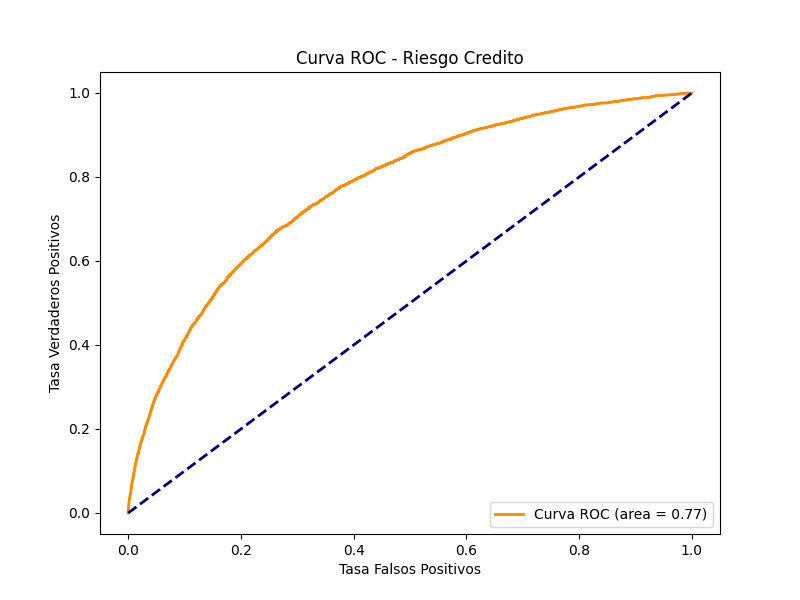
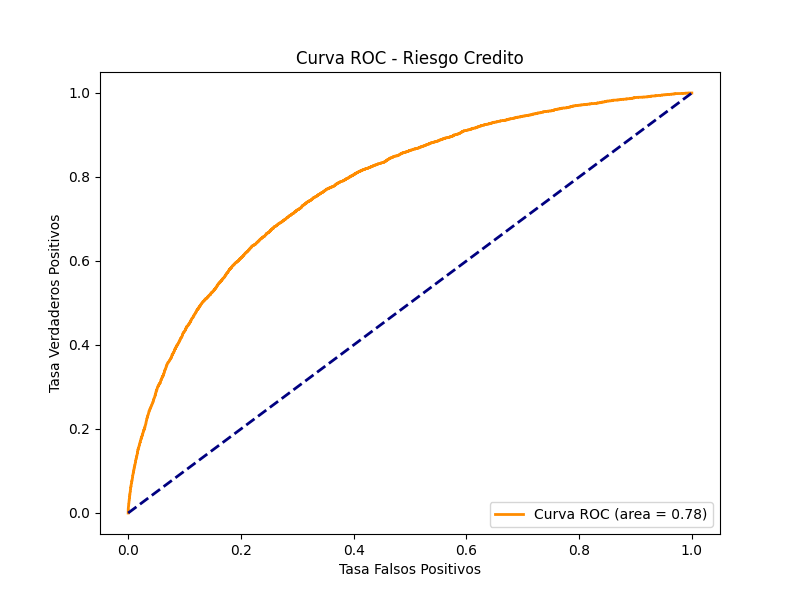
VERSION FINAL: Integracion de 6 fuentes de datos y AUC record de 0.7816

diff --git a/02_data_preparation/make_dataset.py b/02_data_preparation/make_dataset.py
@@ -9,17 +9,22 @@ OUTPUT_FILE = os.path.join(OUTPUT_FOLDER, "master_table.parquet")
 
 def agg_numeric(df, group_var, df_name):
     numeric_df = df.select_dtypes('number')
+    if group_var in numeric_df.columns:
+        numeric_df = numeric_df.drop(columns=[group_var])
     numeric_df[group_var] = df[group_var]
-    agg = numeric_df.groupby(group_var).agg(['mean', 'max', 'min', 'sum'])
+    
+    agg = numeric_df.groupby(group_var).agg(['mean', 'max', 'min', 'sum', 'var'])
+    
     columns = []
     for var in agg.columns.levels[0]:
         for stat in agg.columns.levels[1]:
             columns.append(f'{df_name}_{var}_{stat}')
+    
     agg.columns = columns
     return agg.reset_index()
 
 def main():
-    print("Iniciando integracion de datos...")
+    print("Iniciando integracion masiva de datos...")
     
     path_app = os.path.join(DATA_DIR, 'application_.parquet')
     if not os.path.exists(path_app):
@@ -27,11 +32,11 @@ def main():
         return
 
     df_main = pd.read_parquet(path_app, engine='pyarrow')
-    print(f"Filas iniciales: {df_main.shape[0]}")
+    print(f"Base principal: {df_main.shape}")
 
     path_bureau = os.path.join(DATA_DIR, 'bureau.parquet')
     if os.path.exists(path_bureau):
-        print("Procesando bureau.parquet...")
+        print("Integrando Bureau...")
         bureau = pd.read_parquet(path_bureau, engine='pyarrow')
         bureau_agg = agg_numeric(bureau.drop(columns=['SK_ID_BUREAU']), group_var='SK_ID_CURR', df_name='bureau')
         df_main = df_main.merge(bureau_agg, on='SK_ID_CURR', how='left')
@@ -40,29 +45,70 @@ def main():
 
     path_prev = os.path.join(DATA_DIR, 'previous_application.parquet')
     if os.path.exists(path_prev):
-        print("Procesando previous_application.parquet...")
+        print("Integrando Previous Application...")
         prev = pd.read_parquet(path_prev, engine='pyarrow')
         prev_agg = agg_numeric(prev.drop(columns=['SK_ID_PREV']), group_var='SK_ID_CURR', df_name='prev')
         df_main = df_main.merge(prev_agg, on='SK_ID_CURR', how='left')
         del prev, prev_agg
         gc.collect()
 
-    print("Calculando Ratios Financieros y de Dominio...")
+    path_pos = os.path.join(DATA_DIR, 'POS_CASH_balance.parquet')
+    if os.path.exists(path_pos):
+        print("Integrando POS CASH...")
+        pos = pd.read_parquet(path_pos, engine='pyarrow')
+        pos_agg = agg_numeric(pos.drop(columns=['SK_ID_PREV']), group_var='SK_ID_CURR', df_name='pos')
+        df_main = df_main.merge(pos_agg, on='SK_ID_CURR', how='left')
+        del pos, pos_agg
+        gc.collect()
+
+    path_inst = os.path.join(DATA_DIR, 'installments_payments.parquet')
+    if os.path.exists(path_inst):
+        print("Integrando Installments Payments (Esto toma tiempo)...")
+        inst = pd.read_parquet(path_inst, engine='pyarrow')
+        
+        inst['PAYMENT_DIFF'] = inst['DAYS_ENTRY_PAYMENT'] - inst['DAYS_INSTALMENT']
+        inst['PAYMENT_OVERDUE'] = inst['PAYMENT_DIFF'].apply(lambda x: 1 if x > 0 else 0)
+        
+        inst_agg = agg_numeric(inst.drop(columns=['SK_ID_PREV']), group_var='SK_ID_CURR', df_name='inst')
+        df_main = df_main.merge(inst_agg, on='SK_ID_CURR', how='left')
+        del inst, inst_agg
+        gc.collect()
+
+    path_cc = os.path.join(DATA_DIR, 'credit_card_balance.parquet')
+    if os.path.exists(path_cc):
+        print("Integrando Credit Card Balance...")
+        cc = pd.read_parquet(path_cc, engine='pyarrow')
+        cc_agg = agg_numeric(cc.drop(columns=['SK_ID_PREV']), group_var='SK_ID_CURR', df_name='cc')
+        df_main = df_main.merge(cc_agg, on='SK_ID_CURR', how='left')
+        del cc, cc_agg
+        gc.collect()
+
+    print("Generando Features Polinomicas...")
+    
     df_main['PAYMENT_RATE'] = df_main['AMT_ANNUITY'] / df_main['AMT_CREDIT']
     df_main['INCOME_CREDIT_RATIO'] = df_main['AMT_INCOME_TOTAL'] / df_main['AMT_CREDIT']
-    
     df_main['DAYS_EMPLOYED_PERC'] = df_main['DAYS_EMPLOYED'] / df_main['DAYS_BIRTH']
-    
     df_main['INCOME_PER_PERSON'] = df_main['AMT_INCOME_TOTAL'] / df_main['CNT_FAM_MEMBERS']
-    
     df_main['CREDIT_TERM'] = df_main['AMT_ANNUITY'] / df_main['AMT_CREDIT']
 
+    for col in ['EXT_SOURCE_1', 'EXT_SOURCE_2', 'EXT_SOURCE_3']:
+        if col not in df_main.columns:
+            df_main[col] = np.nan
+
+    df_main['EXT_SOURCE_1'] = df_main['EXT_SOURCE_1'].fillna(df_main['EXT_SOURCE_1'].median())
+    df_main['EXT_SOURCE_2'] = df_main['EXT_SOURCE_2'].fillna(df_main['EXT_SOURCE_2'].median())
+    df_main['EXT_SOURCE_3'] = df_main['EXT_SOURCE_3'].fillna(df_main['EXT_SOURCE_3'].median())
+
+    df_main['EXT_SOURCE_PROD'] = df_main['EXT_SOURCE_1'] * df_main['EXT_SOURCE_2'] * df_main['EXT_SOURCE_3']
+    
     print("Limpiando y guardando...")
     df_main = df_main.replace([np.inf, -np.inf], np.nan)
     
+    df_main = df_main.loc[:, ~df_main.columns.duplicated()]
+    
     os.makedirs(OUTPUT_FOLDER, exist_ok=True)
     df_main.to_parquet(OUTPUT_FILE, engine='pyarrow')
-    print(f"Dataset maestro guardado en: {OUTPUT_FILE}")
+    print(f"Dataset FINAL guardado en: {OUTPUT_FILE}")
     print(f"Dimensiones finales: {df_main.shape}")
 
 if __name__ == "__main__":

diff --git a/03_modeling/train_model.py b/03_modeling/train_model.py
@@ -6,16 +6,14 @@ from sklearn.metrics import classification_report, roc_auc_score
 import joblib
 import os
 
-# CORRECCIÓN: Rutas ajustadas para ejecutar desde la carpeta ML
 DATA_PATH = "02_data_preparation/master_table.parquet"
 ARTIFACTS_DIR = "artifacts"
 
 def train():
-    print("Iniciando Entrenamiento del Modelo...")
+    print("Iniciando Entrenamiento Avanzado...")
     
     if not os.path.exists(DATA_PATH):
         print(f"Error: No se encuentra {DATA_PATH}")
-        print("Verifica que hayas ejecutado el paso anterior (make_dataset.py)")
         return
         
     df = pd.read_parquet(DATA_PATH)
@@ -33,34 +31,34 @@ def train():
     
     ratio = float(np.sum(y == 0)) / np.sum(y == 1)
     
-    print("Ajustando desbalance (Ratio: {:.2f})...".format(ratio))
-    
     model = XGBClassifier(
-        n_estimators=200,
-        max_depth=5,  
-        learning_rate=0.05, 
-        scale_pos_weight=ratio, 
-        subsample=0.8,     
-        colsample_bytree=0.8,
+        n_estimators=500,
+        max_depth=6,
+        learning_rate=0.02,
+        scale_pos_weight=ratio,
+        subsample=0.8,
+        colsample_bytree=0.7,
+        reg_lambda=10,
         random_state=42,
         n_jobs=-1
     )
     
-    print("Entrenando XGBoost...")
+    print("Entrenando XGBoost (Mode: Hardcore)...")
     model.fit(X_train, y_train)
     
     y_pred = model.predict(X_test)
     y_prob = model.predict_proba(X_test)[:, 1]
     
     print(classification_report(y_test, y_pred))
-    print(f"AUC-ROC Score: {roc_auc_score(y_test, y_prob):.4f}")
+    auc = roc_auc_score(y_test, y_prob)
+    print(f"AUC-ROC Score Final: {auc:.4f}")
     
     os.makedirs(ARTIFACTS_DIR, exist_ok=True)
     
     joblib.dump(model, os.path.join(ARTIFACTS_DIR, "xgboost_model.joblib"))
     joblib.dump(X.columns.tolist(), os.path.join(ARTIFACTS_DIR, "model_features.joblib"))
     
-    print("Modelo y features guardados correctamente en artifacts.")
+    print("Modelo guardado.")
 
 if __name__ == "__main__":
     train()
